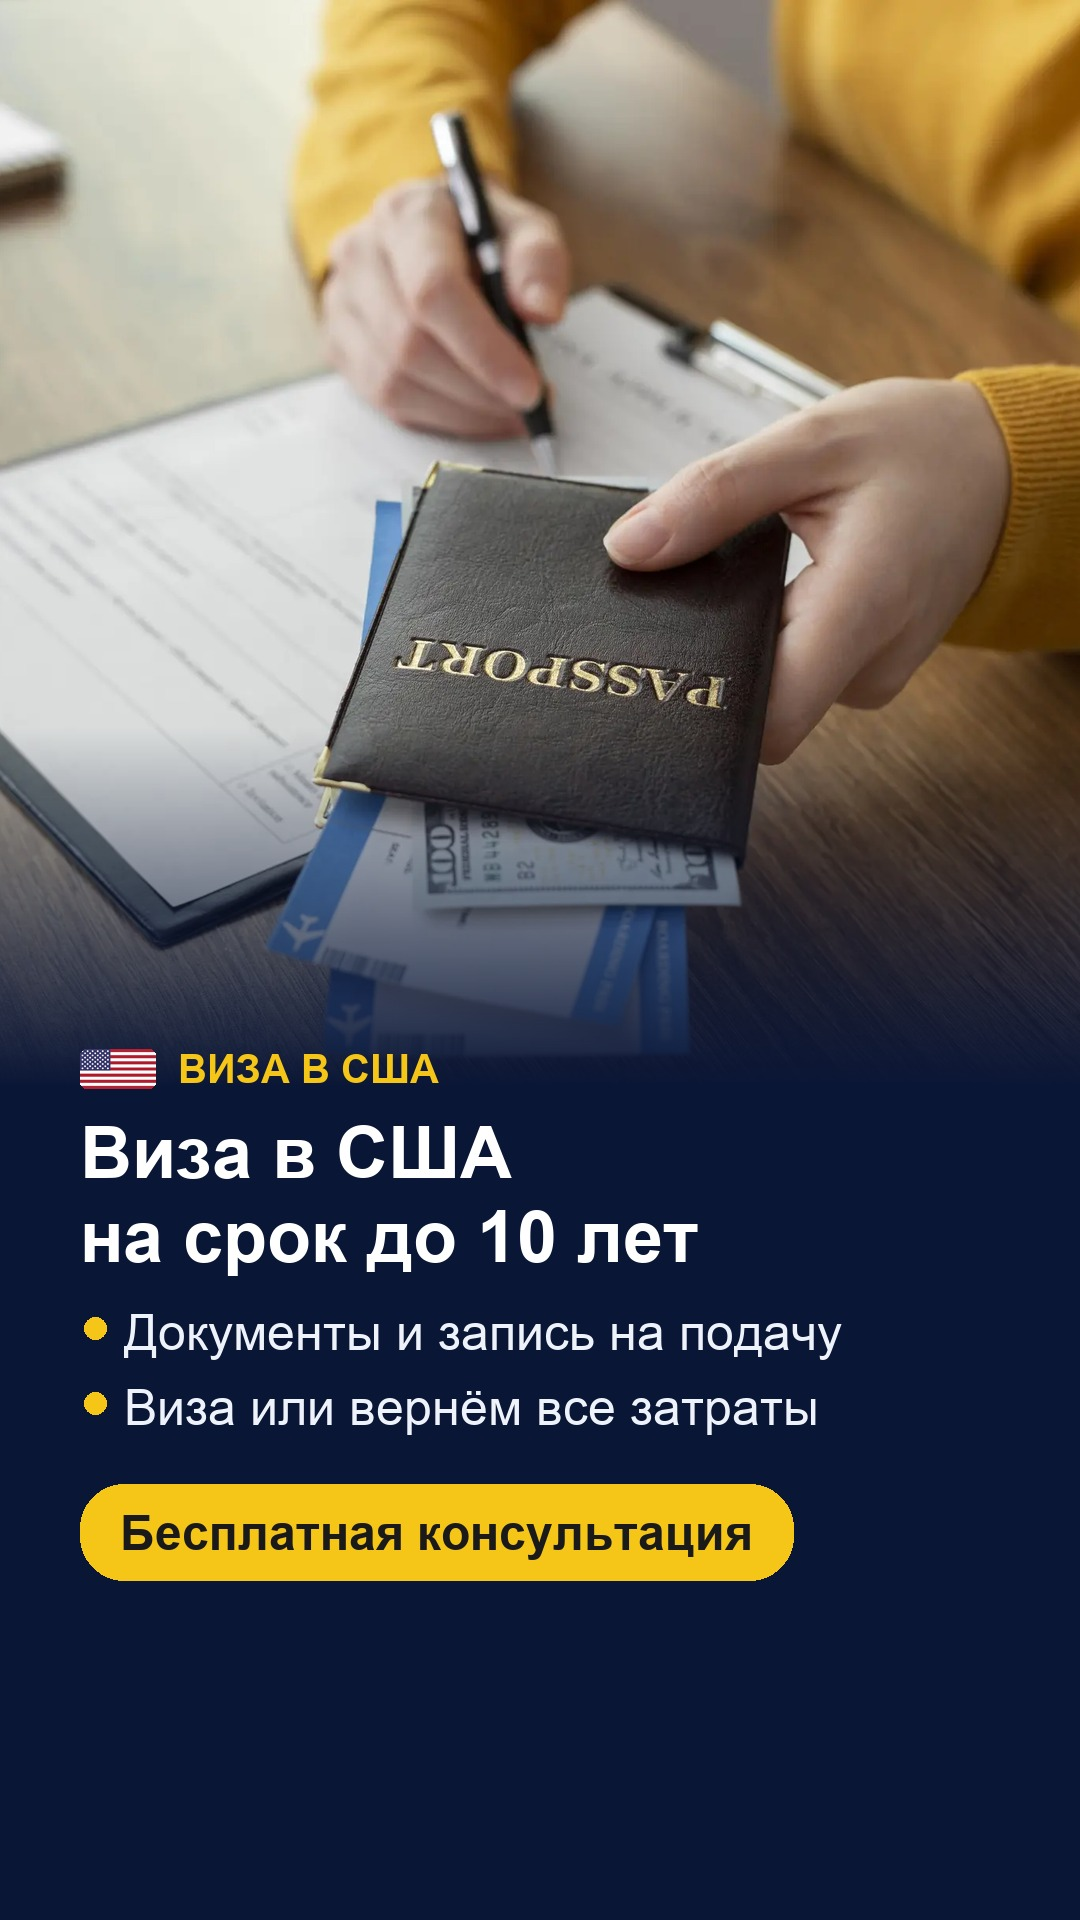
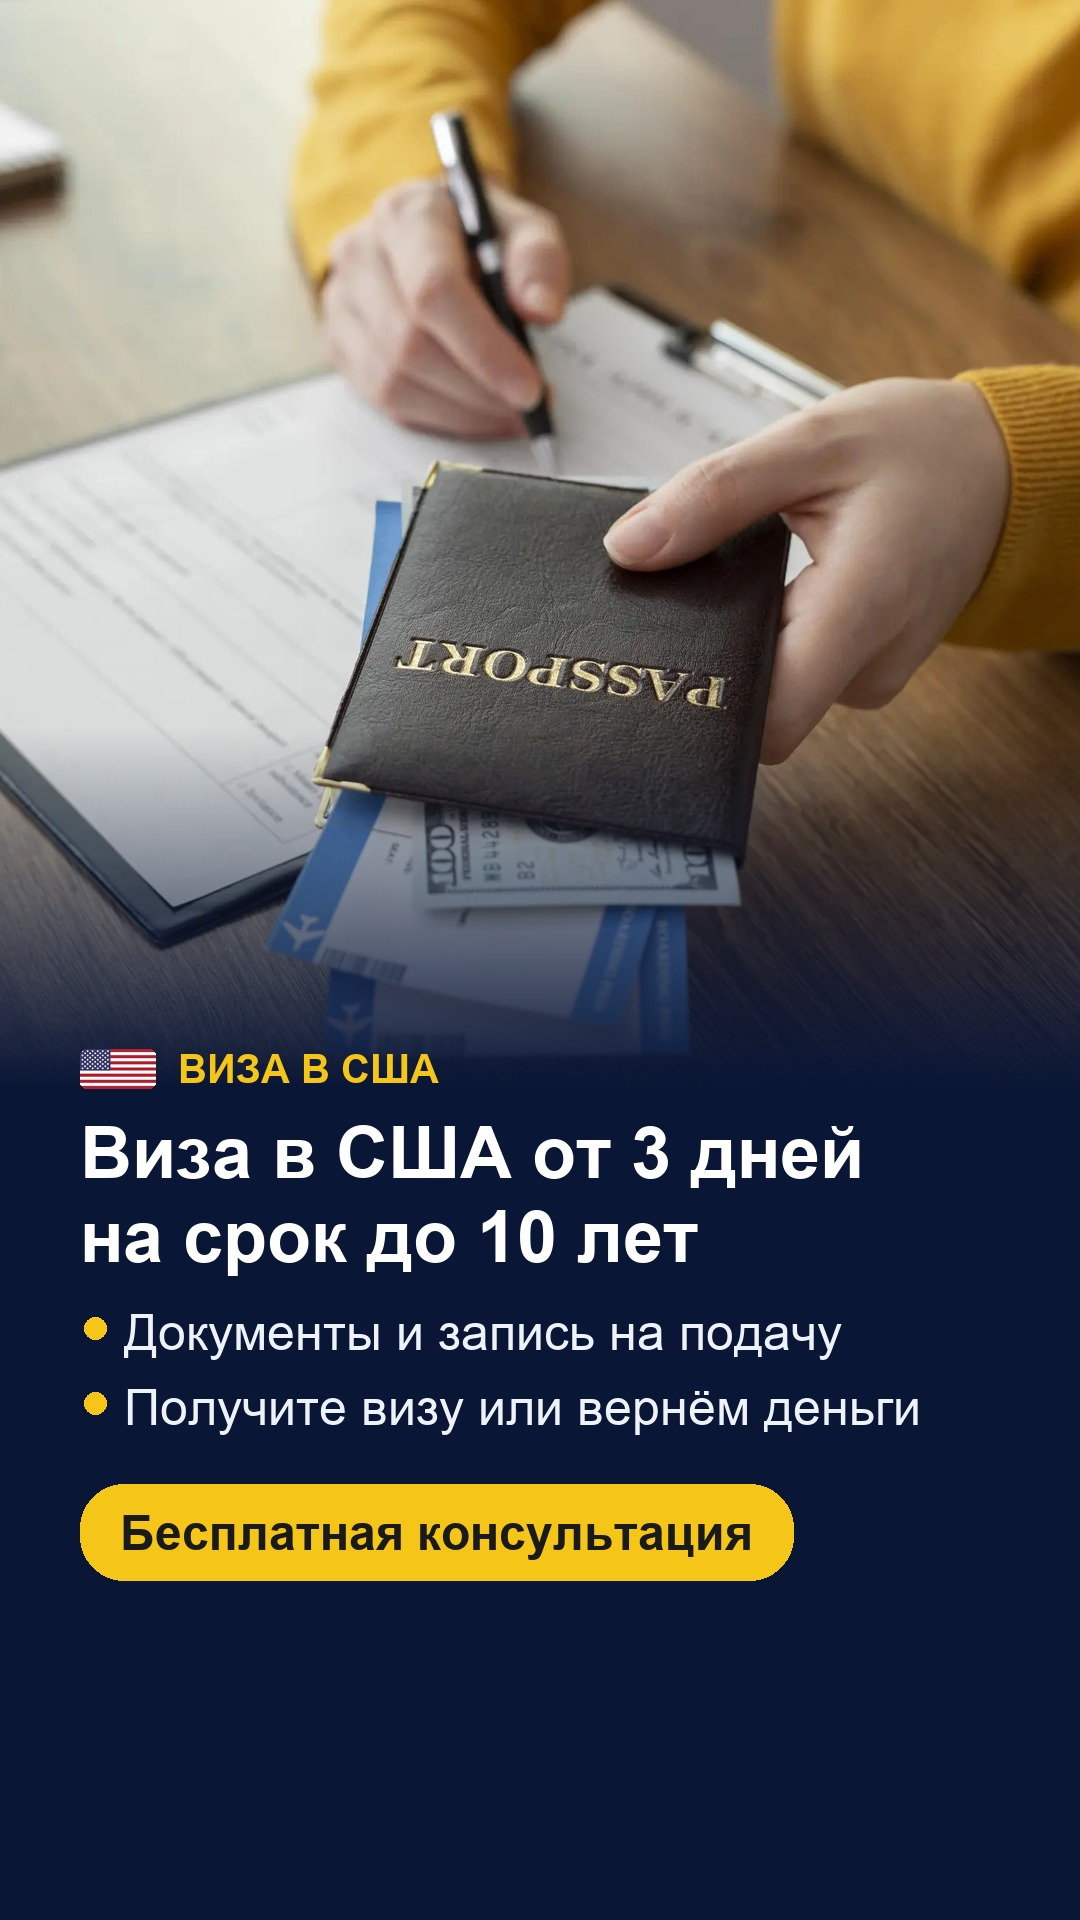
Креативы США/Великобритании: «от 3 дней» в заголовке, «Получите визу или вернём деньги»

Changed region(s): [[0.1222, 0.7188, 0.8556, 0.75], [0.4889, 0.5625, 0.7944, 0.625]]

diff --git a/vscom/tools/visa_creatives.py b/vscom/tools/visa_creatives.py
@@ -3,7 +3,7 @@
 Фото — то же, что в шапке страниц visa-sc.ru/usa и /britain (паспорт в руках),
 чтобы объявление и страница выглядели одним целым. Сверху флаг страны и плашка,
 снизу текст на тёмно-синем затемнении. Формулировки — только те, что есть на
-страницах: «на срок до 10 лет», «виза или вернём затраты», бесплатная консультация.
+страницах: «от 3 дней», «на срок до 10 лет», «получите визу или вернём деньги», бесплатная консультация.
 Лента 1:1 и сторис/Reels 9:16, по папке на кампанию в vscom/ads.
 """
 import os
@@ -113,13 +113,13 @@ def paste_flag(im, fl, x, y):
 C = {
     "usa": {
         "dir": "Виза в США (VSC USA RU)", "flag": flag_us, "tag": "ВИЗА В США",
-        "head": ["Виза в США", "на срок до 10 лет"],
-        "bullets": ["Документы и запись на подачу", "Виза или вернём все затраты"],
+        "head": ["Виза в США от 3 дней", "на срок до 10 лет"],
+        "bullets": ["Документы и запись на подачу", "Получите визу или вернём деньги"],
     },
     "uk": {
         "dir": "Виза в Великобританию (VSC UK RU)", "flag": flag_gb, "tag": "ВИЗА В ВЕЛИКОБРИТАНИЮ",
-        "head": ["Виза в Великобританию", "на срок до 10 лет"],
-        "bullets": ["Документы и запись на подачу", "Виза или вернём все затраты"],
+        "head": ["Виза в Великобританию", "от 3 дней на срок", "до 10 лет"],
+        "bullets": ["Документы и запись на подачу", "Получите визу или вернём деньги"],
     },
 }
 CTA = "Бесплатная консультация"
